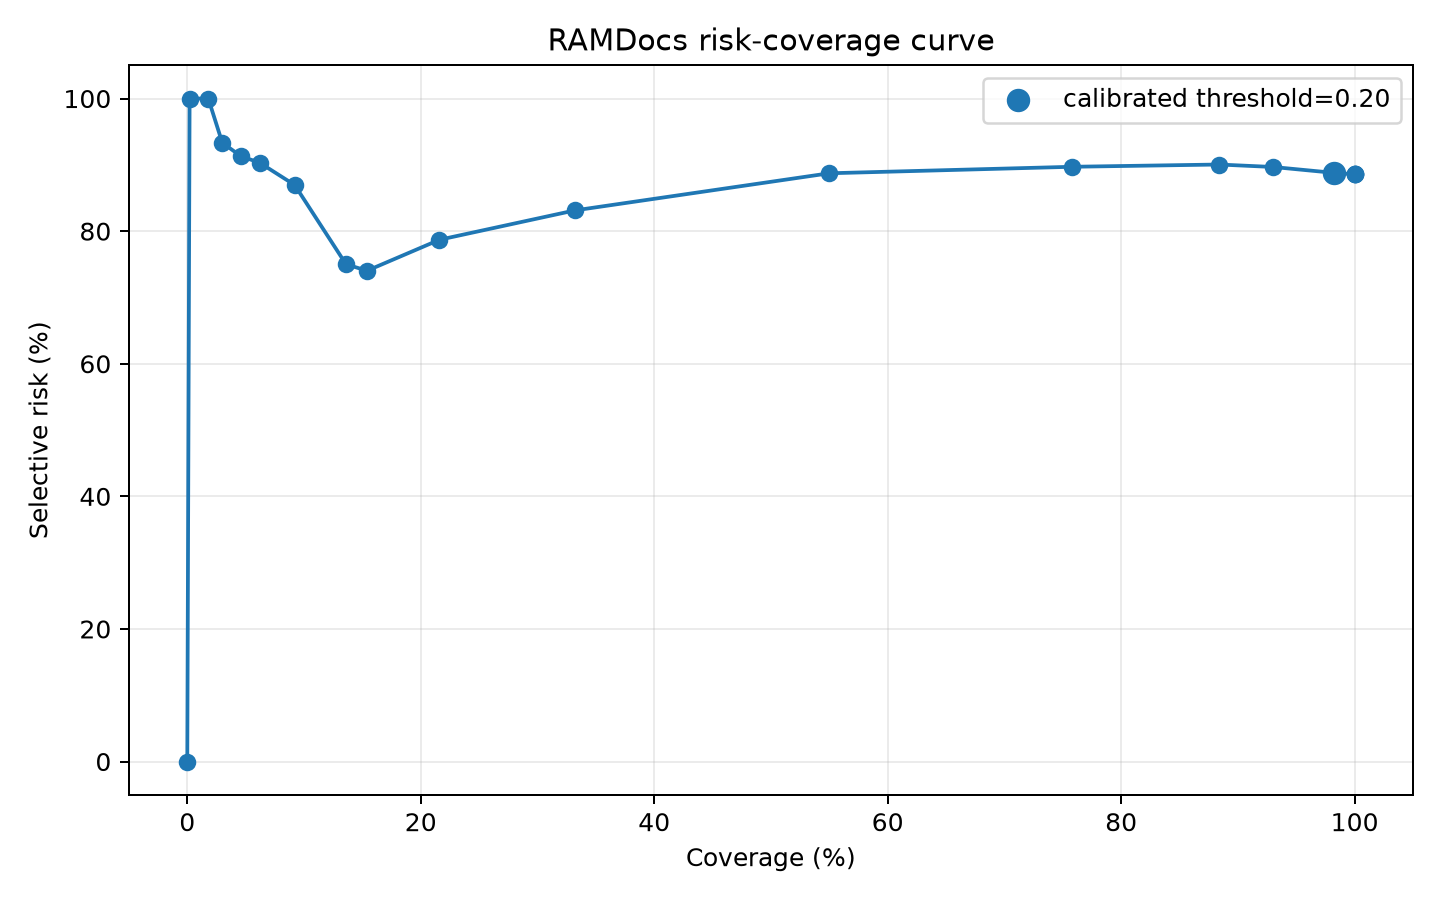
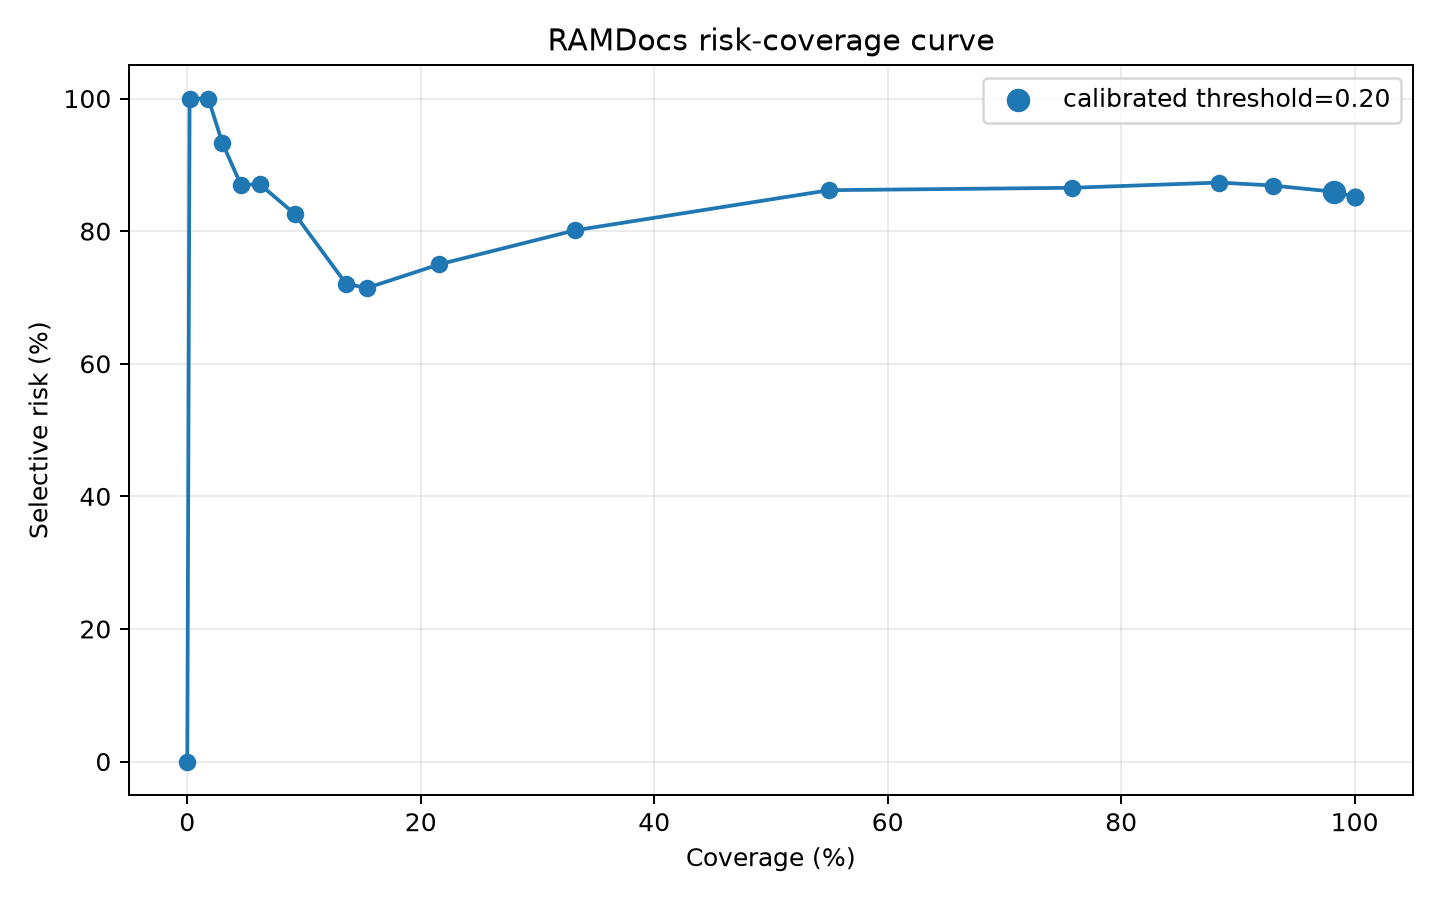
research: update model-backed evaluation results

Changed region(s): [[0.2188, 0.1556, 0.9688, 0.3422], [0.1562, 0.1556, 0.2188, 0.2489]]

diff --git a/research/results/model_backed/RESULTS.md b/research/results/model_backed/RESULTS.md
@@ -23,10 +23,10 @@ This experiment keeps the frozen evidence weights unchanged, uses local neural r
 ~~~json
 {
   "abstain_threshold": 0.2,
-  "validation_score": 0.8,
-  "validation_utility": 0.8,
+  "validation_score": 0.866667,
+  "validation_utility": 0.866667,
   "validation_coverage": 1.0,
-  "validation_selective_accuracy": 0.9,
+  "validation_selective_accuracy": 0.933333,
   "answered": 30,
   "samples": 30,
   "candidate_thresholds": [
@@ -70,16 +70,16 @@ The calibration uses forced-answer validation runs so threshold candidates are e
 | hybrid_rag | 18.0% | 18.0% | 100.0% | 31.2% | 31.2% | 0.000 |
 | conflict_aware | 14.8% | 14.8% | 100.0% | 19.6% | 19.6% | 0.666 |
 | consensus_rag | 11.4% | 11.4% | 100.0% | 19.2% | 19.2% | 0.666 |
-| evidenceguard | 11.0% | 11.2% | 98.2% | 19.2% | 19.6% | 0.666 |
+| evidenceguard | 13.8% | 14.1% | 98.2% | 19.6% | 20.0% | 0.666 |
 
 ## Neural stage ablation
 
-Negative wrong-answer deltas are improvements. consensus_rag isolates contradiction-pruned answer assembly; evidenceguard then adds abstention on top of that same path.
+Negative wrong-answer deltas are improvements. consensus_rag is a side ablation for contradiction-pruned answer assembly; evidenceguard adds abstention directly to conflict_aware so a losing selector is not baked into the final system.
 
 | Transition | Strict acc. | Wrong-answer | Coverage |
 |---|---:|---:|---:|
 | conflict_aware → consensus_rag | -0.034 | -0.004 | +0.000 |
-| consensus_rag → evidenceguard | -0.004 | +0.000 | -0.018 |
+| conflict_aware → evidenceguard | -0.010 | +0.000 | -0.018 |
 
 ## Difference from frozen fallback run
 
@@ -90,19 +90,19 @@ Positive accuracy/F1 deltas are improvements; negative wrong-answer deltas are i
 | basic_rag | +0.000 | +0.000 | +0.000 | +0.000 | +0.000 |
 | hybrid_rag | -0.046 | -0.046 | +0.068 | +0.000 | +0.000 |
 | conflict_aware | -0.048 | -0.048 | +0.006 | +0.000 | +0.089 |
-| evidenceguard | -0.038 | -0.126 | +0.060 | +0.360 | +0.089 |
+| evidenceguard | -0.010 | -0.097 | +0.064 | +0.360 | +0.089 |
 
 ## EvidenceGuard failure counts
 
 ~~~json
 {
-  "strict_correct": 55,
-  "wrong_answer_hits": 96,
+  "strict_correct": 69,
+  "wrong_answer_hits": 98,
   "abstentions": 9,
   "conflict_misses": 11,
-  "strict_improvements_over_hybrid": 14,
-  "wrong_answer_harm_avoided": 69,
-  "regressions_vs_hybrid": 49
+  "strict_improvements_over_hybrid": 16,
+  "wrong_answer_harm_avoided": 61,
+  "regressions_vs_hybrid": 37
 }
 ~~~
 
@@ -131,5 +131,5 @@ Positive accuracy/F1 deltas are improvements; negative wrong-answer deltas are i
 - No RAMDocs label is passed into retrieval, NLI, scoring, generation, abstention calibration, or abstention logic.
 - Strict correctness requires every listed gold answer and no listed wrong answer after normalized phrase matching.
 - The generator remains the extractive fallback so this run isolates retrieval/NLI and selective-answering changes rather than mixing in an LLM generator.
-- The risk-coverage curve is post-hoc evaluation built from consensus_rag, the forced-answer parent of EvidenceGuard; it is not used to choose the threshold.
+- The risk-coverage curve is post-hoc evaluation built from conflict_aware, the forced-answer parent of EvidenceGuard; consensus_rag is reported separately as a side ablation.
 - The workflow fails if dense retrieval or NLI silently drops to a fallback engine.
